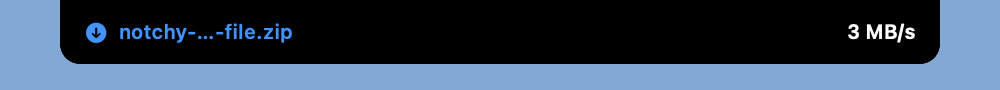
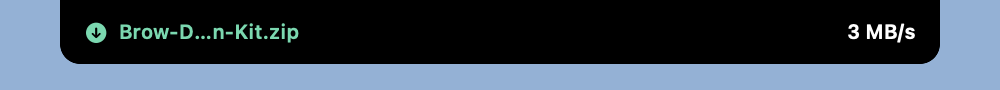
chore: drop the Notchy name and the settings migration
Brow is presented as Brow from the start: no rename banner, FAQ entry or
README note, and the download sample no longer shows the old name.

Changed region(s): [[0.062, 0.2444, 0.31, 0.4889]]

diff --git a/docs/index.html b/docs/index.html
@@ -324,7 +324,7 @@ nav.scrolled { box-shadow: 0 1px 0 var(--border); }
 </head>
 <body>
 
-<div class="banner"><a href="#faq">✦ Notchy is now Brow. Your settings, pins and Shelf come along. <i data-lucide="arrow-right"></i></a></div>
+<div class="banner"><a href="#customize">✦ New: a Mini size that opens just like the notch apps you know. <i data-lucide="arrow-right"></i></a></div>
 
 <nav>
   <div class="wrap">
@@ -501,7 +501,6 @@ nav.scrolled { box-shadow: 0 1px 0 var(--border); }
       <details><summary>Does it work on a Mac without a notch?<i data-lucide="chevron-down"></i></summary><p>Yes. On Macs without a notch, Brow draws a notch-like strip at the top centre of the screen. Pick the floating shape in Settings if you prefer it detached.</p></details>
       <details open><summary>Why does macOS say the app can't be opened?<i data-lucide="chevron-down"></i></summary><p>Brow is ad-hoc signed, not notarized. Right-click the app and choose Open once, or run <code>xattr -dr com.apple.quarantine /Applications/Brow.app</code>.</p></details>
       <details><summary>Is my location sent anywhere?<i data-lucide="chevron-down"></i></summary><p>Prayer times are worked out on your Mac. For the weather, only your place's coordinates go to Open-Meteo, with no account, no key and no tracking. Lyrics lookups send just the song title and artist.</p></details>
-      <details><summary>Coming from Notchy?<i data-lucide="chevron-down"></i></summary><p>Brow is the same app under a new name. Settings, pins and Shelf come along on first launch. Turn Open at login on again, then delete Notchy.app.</p></details>
       <details><summary>Does it need Accessibility permission?<i data-lucide="chevron-down"></i></summary><p>Only for Messages, to read the unread badges on Dock icons (just the numbers). Everything else, including the ⌥ Space shortcut, works without it.</p></details>
       <details><summary>Can I use it on Intel Macs?<i data-lucide="chevron-down"></i></summary><p>Yes. Brow is a universal app for Apple silicon and Intel on macOS 14 or later. Brightness for external monitors over DDC works on Apple silicon only.</p></details>
     </div>

diff --git a/Sources/Brow/App.swift b/Sources/Brow/App.swift
@@ -20,7 +20,6 @@ final class AppDelegate: NSObject, NSApplicationDelegate {
 
     func applicationDidFinishLaunching(_ notification: Notification) {
         Font.registerAppFonts()
-        Self.migrateFromNotchy()
         model = AppModel()
         controller = NotchController(model: model)
 
@@ -39,16 +38,6 @@ final class AppDelegate: NSObject, NSApplicationDelegate {
         menu.addItem(.separator())
         menu.addItem(withTitle: "Quit Brow", action: #selector(NSApplication.terminate(_:)), keyEquivalent: "q")
         statusItem.menu = menu
-    }
-
-    // The app was called Notchy: its settings, pins and Shelf come along the first time Brow opens.
-    private static func migrateFromNotchy() {
-        let defaults = UserDefaults.standard
-        guard let id = Bundle.main.bundleIdentifier, !defaults.bool(forKey: "migratedFromNotchy") else { return }
-        if let old = defaults.persistentDomain(forName: "id.morfotech.notchy"), !old.isEmpty {
-            defaults.setPersistentDomain(old.merging(defaults.persistentDomain(forName: id) ?? [:]) { $1 }, forName: id)
-        }
-        defaults.set(true, forKey: "migratedFromNotchy")
     }
 
     @objc private func openNotch() { controller.expand(pinned: true) }

diff --git a/README.md b/README.md
@@ -119,7 +119,6 @@ Brow is written in Swift and SwiftUI with no third-party dependencies. The downl
 
 Requires macOS 14 or later, as a universal binary for Apple silicon and Intel. Brightness control for external monitors works on Apple silicon only.
 
-**Coming from Notchy?** Brow is the same app under a new name. Your settings, pins and Shelf come along on first launch. Turn **Open at login** on again in Settings, then delete Notchy.app.
 
 macOS asks for access only when a feature needs it:
 
